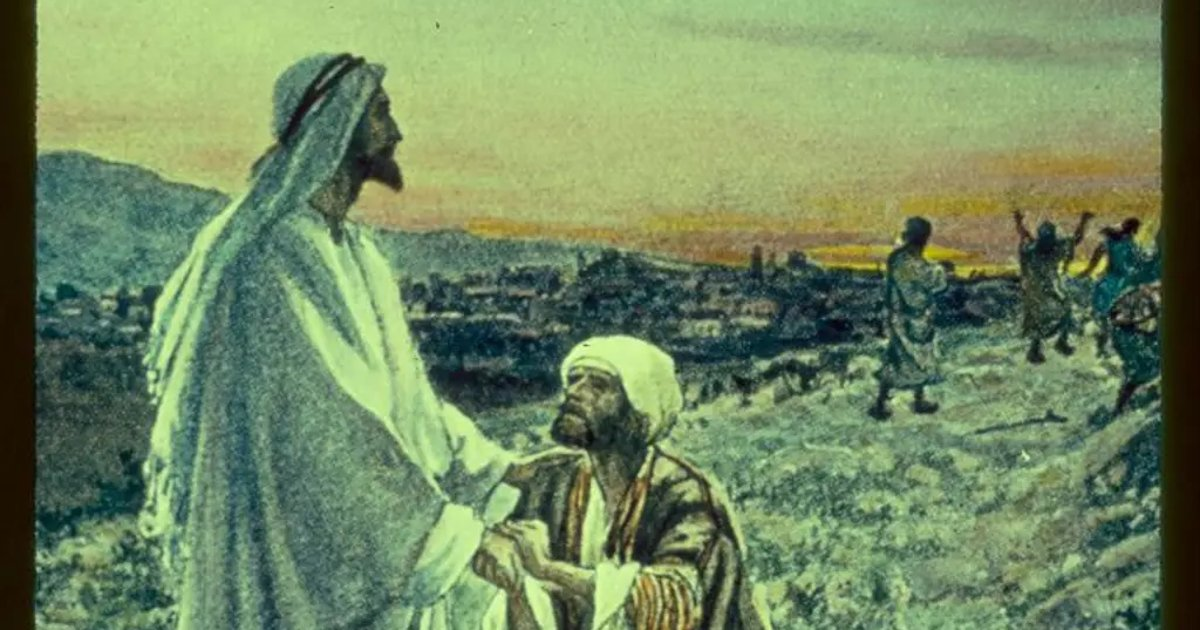
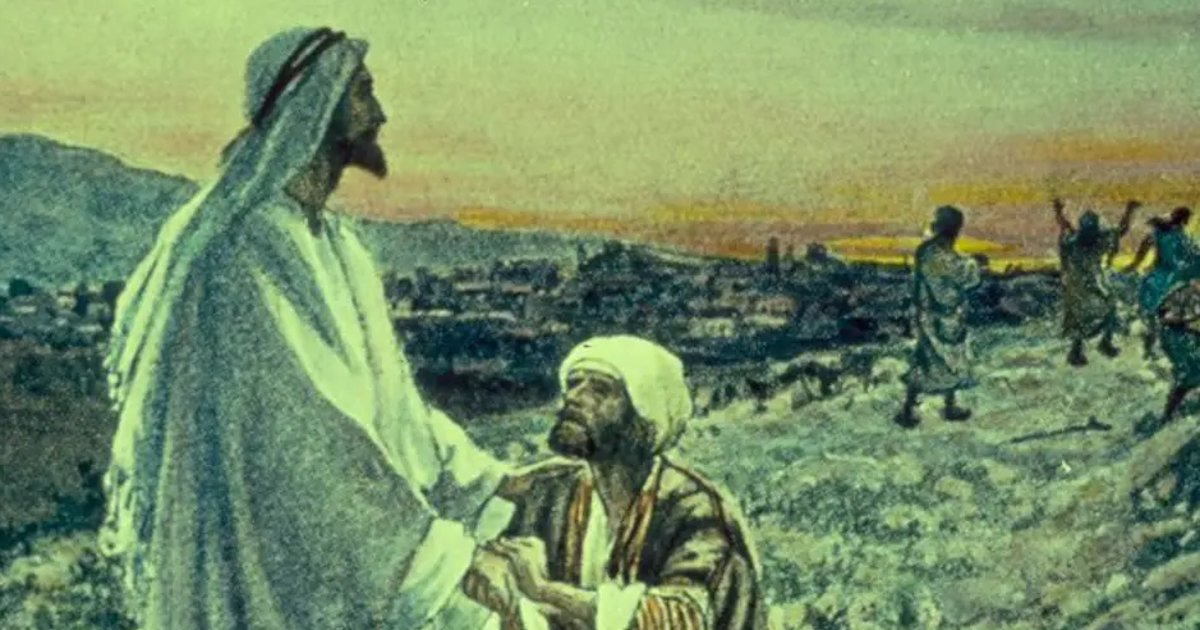
Don't Miss Jesus day pages: photos fill the column (3:2 crop), Day 1 frame trimmed
Claude-Session: https://claude.ai/code/session_01JxK1mnN2tfCYEoytTfFr1N

diff --git a/build/site/dontmissjesus/day-3.html b/build/site/dontmissjesus/day-3.html
@@ -26,7 +26,7 @@
 <link rel="preconnect" href="https://fonts.googleapis.com">
 <link rel="preconnect" href="https://fonts.gstatic.com" crossorigin>
 <link rel="stylesheet" href="https://fonts.googleapis.com/css2?family=Fraunces:opsz,wght@9..144,700;9..144,900&amp;family=Outfit:wght@400;500;600;700&amp;family=Yellowtail&amp;display=swap">
-<link rel="stylesheet" href="/dmj.css?v=54102a7e">
+<link rel="stylesheet" href="/dmj.css?v=536e77d5">
 <link rel="stylesheet" href="https://fonts.googleapis.com/css2?family=Spectral:ital,wght@0,400;0,600;1,400&amp;display=swap">
 </head>
 <body class="dmj dmj-page dmj-day">
@@ -38,7 +38,7 @@
 <article class="day-post">
 <header class="day-head"><p class="day-meta"><span class="red-dot" aria-hidden="true"></span><span>Day 3 of 40</span><span class="sep">·</span><span>Thanksgiving week</span><span class="sep">·</span><span>Wednesday, Nov 25</span></p>
 <h1>Rejoicing in the Lord</h1></header>
-<figure class="day-photo"><img src="/photos/dmj/day-03.webp" alt="" fetchpriority="high"></figure>
+<figure class="day-photo"><img src="/photos/dmj/day-03.webp" alt="" fetchpriority="high" style="object-position:50% 50%"></figure>
 <section class="day-sec word"><h2>Word</h2>
 <blockquote class="day-verse">Rejoice in the Lord always; again I will say, rejoice! Let your gentle spirit be known to all men. The Lord is near. Be anxious for nothing, but in everything by prayer and supplication with thanksgiving let your requests be made known to God. And the peace of God, which surpasses all comprehension, will guard your hearts and your minds in Christ Jesus. Finally, brethren, whatever is true, whatever is honorable, whatever is right, whatever is pure, whatever is lovely, whatever is of good repute, if there is any excellence and if anything worthy of praise, dwell on these things. The things you have learned and received and heard and seen in me, practice these things, and the God of peace will be with you.<cite>Philippians 4:4-9</cite></blockquote>
 <p>What&#x27;s on your mind today? God as our good shepherd leads us to focus our minds today on whatever is true, honorable, right, pure, lovely, of good repute, excellent and worthy of praise. As we do, the peace of God fills us and is with us as we go.</p><p>Great job on starting your day by intentionally setting your mind on these heavenly themes!</p>

diff --git a/dontmissjesus/day-3.html b/dontmissjesus/day-3.html
@@ -26,7 +26,7 @@
 <link rel="preconnect" href="https://fonts.googleapis.com">
 <link rel="preconnect" href="https://fonts.gstatic.com" crossorigin>
 <link rel="stylesheet" href="https://fonts.googleapis.com/css2?family=Fraunces:opsz,wght@9..144,700;9..144,900&amp;family=Outfit:wght@400;500;600;700&amp;family=Yellowtail&amp;display=swap">
-<link rel="stylesheet" href="/dmj.css?v=54102a7e">
+<link rel="stylesheet" href="/dmj.css?v=536e77d5">
 <link rel="stylesheet" href="https://fonts.googleapis.com/css2?family=Spectral:ital,wght@0,400;0,600;1,400&amp;display=swap">
 </head>
 <body class="dmj dmj-page dmj-day">
@@ -38,7 +38,7 @@
 <article class="day-post">
 <header class="day-head"><p class="day-meta"><span class="red-dot" aria-hidden="true"></span><span>Day 3 of 40</span><span class="sep">·</span><span>Thanksgiving week</span><span class="sep">·</span><span>Wednesday, Nov 25</span></p>
 <h1>Rejoicing in the Lord</h1></header>
-<figure class="day-photo"><img src="/photos/dmj/day-03.webp" alt="" fetchpriority="high"></figure>
+<figure class="day-photo"><img src="/photos/dmj/day-03.webp" alt="" fetchpriority="high" style="object-position:50% 50%"></figure>
 <section class="day-sec word"><h2>Word</h2>
 <blockquote class="day-verse">Rejoice in the Lord always; again I will say, rejoice! Let your gentle spirit be known to all men. The Lord is near. Be anxious for nothing, but in everything by prayer and supplication with thanksgiving let your requests be made known to God. And the peace of God, which surpasses all comprehension, will guard your hearts and your minds in Christ Jesus. Finally, brethren, whatever is true, whatever is honorable, whatever is right, whatever is pure, whatever is lovely, whatever is of good repute, if there is any excellence and if anything worthy of praise, dwell on these things. The things you have learned and received and heard and seen in me, practice these things, and the God of peace will be with you.<cite>Philippians 4:4-9</cite></blockquote>
 <p>What&#x27;s on your mind today? God as our good shepherd leads us to focus our minds today on whatever is true, honorable, right, pure, lovely, of good repute, excellent and worthy of praise. As we do, the peace of God fills us and is with us as we go.</p><p>Great job on starting your day by intentionally setting your mind on these heavenly themes!</p>

diff --git a/build/site/dontmissjesus/day-5.html b/build/site/dontmissjesus/day-5.html
@@ -26,7 +26,7 @@
 <link rel="preconnect" href="https://fonts.googleapis.com">
 <link rel="preconnect" href="https://fonts.gstatic.com" crossorigin>
 <link rel="stylesheet" href="https://fonts.googleapis.com/css2?family=Fraunces:opsz,wght@9..144,700;9..144,900&amp;family=Outfit:wght@400;500;600;700&amp;family=Yellowtail&amp;display=swap">
-<link rel="stylesheet" href="/dmj.css?v=54102a7e">
+<link rel="stylesheet" href="/dmj.css?v=536e77d5">
 <link rel="stylesheet" href="https://fonts.googleapis.com/css2?family=Spectral:ital,wght@0,400;0,600;1,400&amp;display=swap">
 </head>
 <body class="dmj dmj-page dmj-day">
@@ -38,7 +38,7 @@
 <article class="day-post">
 <header class="day-head"><p class="day-meta"><span class="red-dot" aria-hidden="true"></span><span>Day 5 of 40</span><span class="sep">·</span><span>Thanksgiving week</span><span class="sep">·</span><span>Friday, Nov 27</span></p>
 <h1>Guarded by Gratitude</h1></header>
-<figure class="day-photo"><img src="/photos/dmj/day-05.webp" alt="" fetchpriority="high"></figure>
+<figure class="day-photo"><img src="/photos/dmj/day-05.webp" alt="" fetchpriority="high" style="object-position:50% 50%"></figure>
 <section class="day-sec word"><h2>Word</h2>
 <blockquote class="day-verse">Nor let us try the Lord, as some of them did, and were destroyed by the serpents. Nor grumble, as some of them did, and were destroyed by the destroyer. Now these things happened to them as an example, and they were written for our instruction, upon whom the ends of the ages have come. Therefore let him who thinks he stands take heed that he does not fall.<cite>1 Corinthians 10:9-12</cite></blockquote>
 <p>As God&#x27;s people went through the wilderness, they faced many trials. Perhaps one of the biggest was not external but internal. Their own grumbling fed their discontent and led them away from the land flowing with milk and honey that God was bringing them into. Gratitude was meant to be their guard. By neglecting it, they opened the door to destruction and missed the Lord&#x27;s goodness and provision!</p>

diff --git a/dontmissjesus/day-5.html b/dontmissjesus/day-5.html
@@ -26,7 +26,7 @@
 <link rel="preconnect" href="https://fonts.googleapis.com">
 <link rel="preconnect" href="https://fonts.gstatic.com" crossorigin>
 <link rel="stylesheet" href="https://fonts.googleapis.com/css2?family=Fraunces:opsz,wght@9..144,700;9..144,900&amp;family=Outfit:wght@400;500;600;700&amp;family=Yellowtail&amp;display=swap">
-<link rel="stylesheet" href="/dmj.css?v=54102a7e">
+<link rel="stylesheet" href="/dmj.css?v=536e77d5">
 <link rel="stylesheet" href="https://fonts.googleapis.com/css2?family=Spectral:ital,wght@0,400;0,600;1,400&amp;display=swap">
 </head>
 <body class="dmj dmj-page dmj-day">
@@ -38,7 +38,7 @@
 <article class="day-post">
 <header class="day-head"><p class="day-meta"><span class="red-dot" aria-hidden="true"></span><span>Day 5 of 40</span><span class="sep">·</span><span>Thanksgiving week</span><span class="sep">·</span><span>Friday, Nov 27</span></p>
 <h1>Guarded by Gratitude</h1></header>
-<figure class="day-photo"><img src="/photos/dmj/day-05.webp" alt="" fetchpriority="high"></figure>
+<figure class="day-photo"><img src="/photos/dmj/day-05.webp" alt="" fetchpriority="high" style="object-position:50% 50%"></figure>
 <section class="day-sec word"><h2>Word</h2>
 <blockquote class="day-verse">Nor let us try the Lord, as some of them did, and were destroyed by the serpents. Nor grumble, as some of them did, and were destroyed by the destroyer. Now these things happened to them as an example, and they were written for our instruction, upon whom the ends of the ages have come. Therefore let him who thinks he stands take heed that he does not fall.<cite>1 Corinthians 10:9-12</cite></blockquote>
 <p>As God&#x27;s people went through the wilderness, they faced many trials. Perhaps one of the biggest was not external but internal. Their own grumbling fed their discontent and led them away from the land flowing with milk and honey that God was bringing them into. Gratitude was meant to be their guard. By neglecting it, they opened the door to destruction and missed the Lord&#x27;s goodness and provision!</p>

diff --git a/build/site/dontmissjesus/day-1.html b/build/site/dontmissjesus/day-1.html
@@ -26,7 +26,7 @@
 <link rel="preconnect" href="https://fonts.googleapis.com">
 <link rel="preconnect" href="https://fonts.gstatic.com" crossorigin>
 <link rel="stylesheet" href="https://fonts.googleapis.com/css2?family=Fraunces:opsz,wght@9..144,700;9..144,900&amp;family=Outfit:wght@400;500;600;700&amp;family=Yellowtail&amp;display=swap">
-<link rel="stylesheet" href="/dmj.css?v=54102a7e">
+<link rel="stylesheet" href="/dmj.css?v=536e77d5">
 <link rel="stylesheet" href="https://fonts.googleapis.com/css2?family=Spectral:ital,wght@0,400;0,600;1,400&amp;display=swap">
 </head>
 <body class="dmj dmj-page dmj-day">
@@ -38,7 +38,7 @@
 <article class="day-post">
 <header class="day-head"><p class="day-meta"><span class="red-dot" aria-hidden="true"></span><span>Day 1 of 40</span><span class="sep">·</span><span>Thanksgiving week</span><span class="sep">·</span><span>Monday, Nov 23</span></p>
 <h1>Don&#x27;t Miss Jesus</h1></header>
-<figure class="day-photo"><img src="/photos/dmj/day-01.webp" alt="" fetchpriority="high"></figure>
+<figure class="day-photo"><img src="/photos/dmj/day-01.webp" alt="" fetchpriority="high" style="object-position:50% 22%"></figure>
 <section class="day-sec word"><h2>Word</h2>
 <blockquote class="day-verse">Then Jesus answered and said, &quot;Were there not ten cleansed? But the nine—where are they? Was no one found who returned to give glory to God, except this foreigner?&quot;<cite>Luke 17:17-18</cite></blockquote>
 <p>The Gospel of Luke includes the story of Jesus healing ten lepers and restoring them to their families. All of them experienced the blessing of God and an incredible miracle and were happy to go on their way. Only one returned to Jesus and gave thanks. The nine were blessed, but you have to wonder if they missed the true treasure that is Jesus Himself.</p><p>Intentional gratitude helps us not miss Jesus in the midst of the blessings He gives. As we start these 40 days, we start with returning to the Lord and giving Him thanks.</p>

diff --git a/dontmissjesus/day-1.html b/dontmissjesus/day-1.html
@@ -26,7 +26,7 @@
 <link rel="preconnect" href="https://fonts.googleapis.com">
 <link rel="preconnect" href="https://fonts.gstatic.com" crossorigin>
 <link rel="stylesheet" href="https://fonts.googleapis.com/css2?family=Fraunces:opsz,wght@9..144,700;9..144,900&amp;family=Outfit:wght@400;500;600;700&amp;family=Yellowtail&amp;display=swap">
-<link rel="stylesheet" href="/dmj.css?v=54102a7e">
+<link rel="stylesheet" href="/dmj.css?v=536e77d5">
 <link rel="stylesheet" href="https://fonts.googleapis.com/css2?family=Spectral:ital,wght@0,400;0,600;1,400&amp;display=swap">
 </head>
 <body class="dmj dmj-page dmj-day">
@@ -38,7 +38,7 @@
 <article class="day-post">
 <header class="day-head"><p class="day-meta"><span class="red-dot" aria-hidden="true"></span><span>Day 1 of 40</span><span class="sep">·</span><span>Thanksgiving week</span><span class="sep">·</span><span>Monday, Nov 23</span></p>
 <h1>Don&#x27;t Miss Jesus</h1></header>
-<figure class="day-photo"><img src="/photos/dmj/day-01.webp" alt="" fetchpriority="high"></figure>
+<figure class="day-photo"><img src="/photos/dmj/day-01.webp" alt="" fetchpriority="high" style="object-position:50% 22%"></figure>
 <section class="day-sec word"><h2>Word</h2>
 <blockquote class="day-verse">Then Jesus answered and said, &quot;Were there not ten cleansed? But the nine—where are they? Was no one found who returned to give glory to God, except this foreigner?&quot;<cite>Luke 17:17-18</cite></blockquote>
 <p>The Gospel of Luke includes the story of Jesus healing ten lepers and restoring them to their families. All of them experienced the blessing of God and an incredible miracle and were happy to go on their way. Only one returned to Jesus and gave thanks. The nine were blessed, but you have to wonder if they missed the true treasure that is Jesus Himself.</p><p>Intentional gratitude helps us not miss Jesus in the midst of the blessings He gives. As we start these 40 days, we start with returning to the Lord and giving Him thanks.</p>

diff --git a/build/site/dontmissjesus/day-7.html b/build/site/dontmissjesus/day-7.html
@@ -26,7 +26,7 @@
 <link rel="preconnect" href="https://fonts.googleapis.com">
 <link rel="preconnect" href="https://fonts.gstatic.com" crossorigin>
 <link rel="stylesheet" href="https://fonts.googleapis.com/css2?family=Fraunces:opsz,wght@9..144,700;9..144,900&amp;family=Outfit:wght@400;500;600;700&amp;family=Yellowtail&amp;display=swap">
-<link rel="stylesheet" href="/dmj.css?v=54102a7e">
+<link rel="stylesheet" href="/dmj.css?v=536e77d5">
 <link rel="stylesheet" href="https://fonts.googleapis.com/css2?family=Spectral:ital,wght@0,400;0,600;1,400&amp;display=swap">
 </head>
 <body class="dmj dmj-page dmj-day">
@@ -38,7 +38,7 @@
 <article class="day-post">
 <header class="day-head"><p class="day-meta"><span class="red-dot" aria-hidden="true"></span><span>Day 7 of 40</span><span class="sep">·</span><span>Thanksgiving week</span><span class="sep">·</span><span>Sunday, Nov 29</span></p>
 <h1>Filled with the Spirit</h1></header>
-<figure class="day-photo"><img src="/photos/dmj/day-07.webp" alt="" fetchpriority="high"></figure>
+<figure class="day-photo"><img src="/photos/dmj/day-07.webp" alt="" fetchpriority="high" style="object-position:50% 12%"></figure>
 <section class="day-sec word"><h2>Word</h2>
 <blockquote class="day-verse">And do not get drunk with wine, for that is dissipation, but be filled with the Spirit, speaking to one another in psalms and hymns and spiritual songs, singing and making melody with your heart to the Lord; always giving thanks for all things in the name of our Lord Jesus Christ to God, even the Father.<cite>Ephesians 5:18-20</cite></blockquote>
 <p>Thanksgiving week can be a time we are filled with all sorts of foods. Ephesians 5 reminds us that deeper than being filled with the food and drink of this world, God wants to fill us with His Spirit, and one of the ways He fills us with the Spirit is through our thanksgiving. So let us give thanks today to the Lord and be filled to overflowing with the Holy Spirit!</p>

diff --git a/dontmissjesus/day-7.html b/dontmissjesus/day-7.html
@@ -26,7 +26,7 @@
 <link rel="preconnect" href="https://fonts.googleapis.com">
 <link rel="preconnect" href="https://fonts.gstatic.com" crossorigin>
 <link rel="stylesheet" href="https://fonts.googleapis.com/css2?family=Fraunces:opsz,wght@9..144,700;9..144,900&amp;family=Outfit:wght@400;500;600;700&amp;family=Yellowtail&amp;display=swap">
-<link rel="stylesheet" href="/dmj.css?v=54102a7e">
+<link rel="stylesheet" href="/dmj.css?v=536e77d5">
 <link rel="stylesheet" href="https://fonts.googleapis.com/css2?family=Spectral:ital,wght@0,400;0,600;1,400&amp;display=swap">
 </head>
 <body class="dmj dmj-page dmj-day">
@@ -38,7 +38,7 @@
 <article class="day-post">
 <header class="day-head"><p class="day-meta"><span class="red-dot" aria-hidden="true"></span><span>Day 7 of 40</span><span class="sep">·</span><span>Thanksgiving week</span><span class="sep">·</span><span>Sunday, Nov 29</span></p>
 <h1>Filled with the Spirit</h1></header>
-<figure class="day-photo"><img src="/photos/dmj/day-07.webp" alt="" fetchpriority="high"></figure>
+<figure class="day-photo"><img src="/photos/dmj/day-07.webp" alt="" fetchpriority="high" style="object-position:50% 12%"></figure>
 <section class="day-sec word"><h2>Word</h2>
 <blockquote class="day-verse">And do not get drunk with wine, for that is dissipation, but be filled with the Spirit, speaking to one another in psalms and hymns and spiritual songs, singing and making melody with your heart to the Lord; always giving thanks for all things in the name of our Lord Jesus Christ to God, even the Father.<cite>Ephesians 5:18-20</cite></blockquote>
 <p>Thanksgiving week can be a time we are filled with all sorts of foods. Ephesians 5 reminds us that deeper than being filled with the food and drink of this world, God wants to fill us with His Spirit, and one of the ways He fills us with the Spirit is through our thanksgiving. So let us give thanks today to the Lord and be filled to overflowing with the Holy Spirit!</p>

diff --git a/build/site/dontmissjesus/day-2.html b/build/site/dontmissjesus/day-2.html
@@ -26,7 +26,7 @@
 <link rel="preconnect" href="https://fonts.googleapis.com">
 <link rel="preconnect" href="https://fonts.gstatic.com" crossorigin>
 <link rel="stylesheet" href="https://fonts.googleapis.com/css2?family=Fraunces:opsz,wght@9..144,700;9..144,900&amp;family=Outfit:wght@400;500;600;700&amp;family=Yellowtail&amp;display=swap">
-<link rel="stylesheet" href="/dmj.css?v=54102a7e">
+<link rel="stylesheet" href="/dmj.css?v=536e77d5">
 <link rel="stylesheet" href="https://fonts.googleapis.com/css2?family=Spectral:ital,wght@0,400;0,600;1,400&amp;display=swap">
 </head>
 <body class="dmj dmj-page dmj-day">
@@ -38,7 +38,7 @@
 <article class="day-post">
 <header class="day-head"><p class="day-meta"><span class="red-dot" aria-hidden="true"></span><span>Day 2 of 40</span><span class="sep">·</span><span>Thanksgiving week</span><span class="sep">·</span><span>Tuesday, Nov 24</span></p>
 <h1>In Everything Give Thanks</h1></header>
-<figure class="day-photo"><img src="/photos/dmj/day-02.webp" alt="" fetchpriority="high"></figure>
+<figure class="day-photo"><img src="/photos/dmj/day-02.webp" alt="" fetchpriority="high" style="object-position:50% 55%"></figure>
 <section class="day-sec word"><h2>Word</h2>
 <blockquote class="day-verse">Rejoice always; pray without ceasing; in everything give thanks; for this is God&#x27;s will for you in Christ Jesus. Do not quench the Spirit.<cite>1 Thessalonians 5:16-19</cite></blockquote>
 <p>We often wonder what God&#x27;s will is for our lives when we think about big decisions. Where do I live? What do I do? Who do I marry? All of those are very important. And at the same time, Scripture makes it clear that a significant part of God&#x27;s will for our lives is developing a thankful heart. As you come to the Lord today, intentionally work the muscles of thanksgiving, for this is God&#x27;s will for you.</p>

diff --git a/dontmissjesus/day-2.html b/dontmissjesus/day-2.html
@@ -26,7 +26,7 @@
 <link rel="preconnect" href="https://fonts.googleapis.com">
 <link rel="preconnect" href="https://fonts.gstatic.com" crossorigin>
 <link rel="stylesheet" href="https://fonts.googleapis.com/css2?family=Fraunces:opsz,wght@9..144,700;9..144,900&amp;family=Outfit:wght@400;500;600;700&amp;family=Yellowtail&amp;display=swap">
-<link rel="stylesheet" href="/dmj.css?v=54102a7e">
+<link rel="stylesheet" href="/dmj.css?v=536e77d5">
 <link rel="stylesheet" href="https://fonts.googleapis.com/css2?family=Spectral:ital,wght@0,400;0,600;1,400&amp;display=swap">
 </head>
 <body class="dmj dmj-page dmj-day">
@@ -38,7 +38,7 @@
 <article class="day-post">
 <header class="day-head"><p class="day-meta"><span class="red-dot" aria-hidden="true"></span><span>Day 2 of 40</span><span class="sep">·</span><span>Thanksgiving week</span><span class="sep">·</span><span>Tuesday, Nov 24</span></p>
 <h1>In Everything Give Thanks</h1></header>
-<figure class="day-photo"><img src="/photos/dmj/day-02.webp" alt="" fetchpriority="high"></figure>
+<figure class="day-photo"><img src="/photos/dmj/day-02.webp" alt="" fetchpriority="high" style="object-position:50% 55%"></figure>
 <section class="day-sec word"><h2>Word</h2>
 <blockquote class="day-verse">Rejoice always; pray without ceasing; in everything give thanks; for this is God&#x27;s will for you in Christ Jesus. Do not quench the Spirit.<cite>1 Thessalonians 5:16-19</cite></blockquote>
 <p>We often wonder what God&#x27;s will is for our lives when we think about big decisions. Where do I live? What do I do? Who do I marry? All of those are very important. And at the same time, Scripture makes it clear that a significant part of God&#x27;s will for our lives is developing a thankful heart. As you come to the Lord today, intentionally work the muscles of thanksgiving, for this is God&#x27;s will for you.</p>

diff --git a/build/site/dontmissjesus/day-6.html b/build/site/dontmissjesus/day-6.html
@@ -26,7 +26,7 @@
 <link rel="preconnect" href="https://fonts.googleapis.com">
 <link rel="preconnect" href="https://fonts.gstatic.com" crossorigin>
 <link rel="stylesheet" href="https://fonts.googleapis.com/css2?family=Fraunces:opsz,wght@9..144,700;9..144,900&amp;family=Outfit:wght@400;500;600;700&amp;family=Yellowtail&amp;display=swap">
-<link rel="stylesheet" href="/dmj.css?v=54102a7e">
+<link rel="stylesheet" href="/dmj.css?v=536e77d5">
 <link rel="stylesheet" href="https://fonts.googleapis.com/css2?family=Spectral:ital,wght@0,400;0,600;1,400&amp;display=swap">
 </head>
 <body class="dmj dmj-page dmj-day">
@@ -38,7 +38,7 @@
 <article class="day-post">
 <header class="day-head"><p class="day-meta"><span class="red-dot" aria-hidden="true"></span><span>Day 6 of 40</span><span class="sep">·</span><span>Thanksgiving week</span><span class="sep">·</span><span>Saturday, Nov 28</span></p>
 <h1>Great is Thy Faithfulness</h1></header>
-<figure class="day-photo"><img src="/photos/dmj/day-06.webp" alt="" fetchpriority="high"></figure>
+<figure class="day-photo"><img src="/photos/dmj/day-06.webp" alt="" fetchpriority="high" style="object-position:50% 0%"></figure>
 <section class="day-sec word"><h2>Word</h2>
 <blockquote class="day-verse">Offer to God a sacrifice of thanksgiving And pay your vows to the Most High. ... He who offers a sacrifice of thanksgiving honors Me; And to him who orders his way aright I shall show the salvation of God.<cite>Psalm 50:14, 23</cite></blockquote>
 <p>God teaches us that thanksgiving is deeper than a feeling. Feelings can come and go, and sometimes thanksgiving is a sacrifice, an intentional choice and practice. Today as you come before the Lord, offer a sacrifice of praise for His great faithfulness and show Him honor.</p>

diff --git a/dontmissjesus/day-6.html b/dontmissjesus/day-6.html
@@ -26,7 +26,7 @@
 <link rel="preconnect" href="https://fonts.googleapis.com">
 <link rel="preconnect" href="https://fonts.gstatic.com" crossorigin>
 <link rel="stylesheet" href="https://fonts.googleapis.com/css2?family=Fraunces:opsz,wght@9..144,700;9..144,900&amp;family=Outfit:wght@400;500;600;700&amp;family=Yellowtail&amp;display=swap">
-<link rel="stylesheet" href="/dmj.css?v=54102a7e">
+<link rel="stylesheet" href="/dmj.css?v=536e77d5">
 <link rel="stylesheet" href="https://fonts.googleapis.com/css2?family=Spectral:ital,wght@0,400;0,600;1,400&amp;display=swap">
 </head>
 <body class="dmj dmj-page dmj-day">
@@ -38,7 +38,7 @@
 <article class="day-post">
 <header class="day-head"><p class="day-meta"><span class="red-dot" aria-hidden="true"></span><span>Day 6 of 40</span><span class="sep">·</span><span>Thanksgiving week</span><span class="sep">·</span><span>Saturday, Nov 28</span></p>
 <h1>Great is Thy Faithfulness</h1></header>
-<figure class="day-photo"><img src="/photos/dmj/day-06.webp" alt="" fetchpriority="high"></figure>
+<figure class="day-photo"><img src="/photos/dmj/day-06.webp" alt="" fetchpriority="high" style="object-position:50% 0%"></figure>
 <section class="day-sec word"><h2>Word</h2>
 <blockquote class="day-verse">Offer to God a sacrifice of thanksgiving And pay your vows to the Most High. ... He who offers a sacrifice of thanksgiving honors Me; And to him who orders his way aright I shall show the salvation of God.<cite>Psalm 50:14, 23</cite></blockquote>
 <p>God teaches us that thanksgiving is deeper than a feeling. Feelings can come and go, and sometimes thanksgiving is a sacrifice, an intentional choice and practice. Today as you come before the Lord, offer a sacrifice of praise for His great faithfulness and show Him honor.</p>
